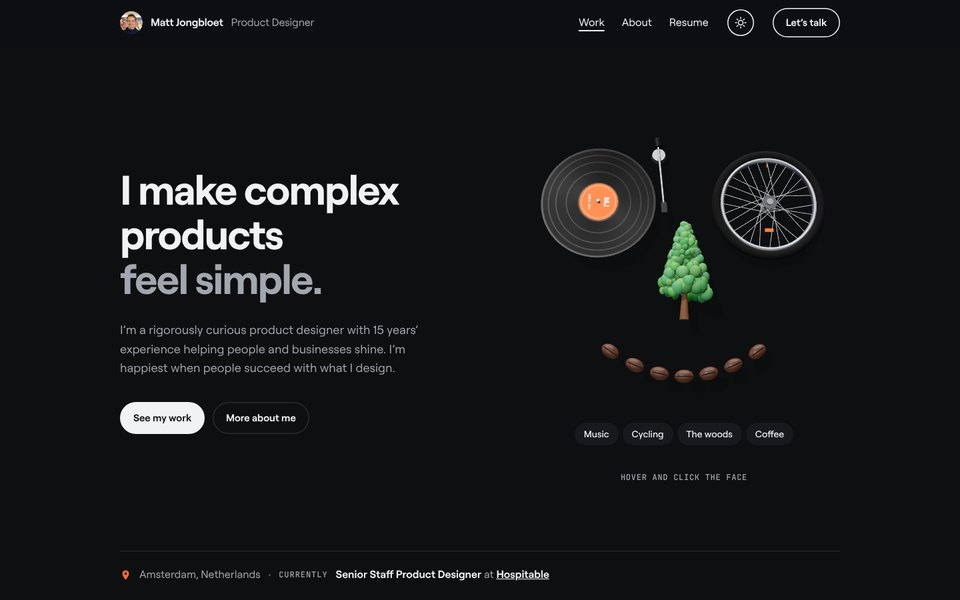
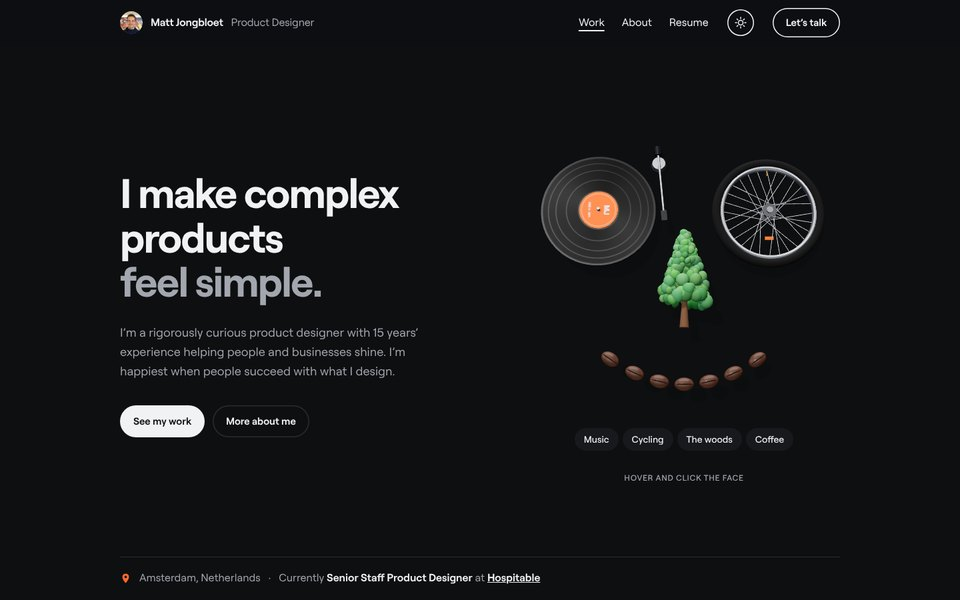
Site hero fits the first screen on laptops; labels set in Roobert
- The 3D stage now scales with the window height (the buttons under it
  keep their width), hero padding and the bottom line are tighter, and
  the header's border is counted, so "Amsterdam, Netherlands · Currently
  Senior Staff Product Designer at Hospitable" is always above the fold
  (checked from 1280×600 to 1920×1080).
- "Currently" is plain Roobert text; the small labels that used the
  monospace font (captions, eyebrows, dates) use Roobert across the site
  and case studies.

Claude-Session: https://claude.ai/code/session_01Tkb5DGqZXNJZimVWufZrfG

diff --git a/redesigns/site/variant.css b/redesigns/site/variant.css
@@ -78,20 +78,25 @@ body { font-size: 16px; }
 
 /* Hero modelled on Sati Tashibayeva's: a smaller headline and intro, the interactive piece on the right,
    and one line underneath (location, current role) in place of the four impact blocks. */
-.hero-screen { display: flex; flex-direction: column; min-height: calc(100svh - 68px); }
+.hero-screen { display: flex; flex-direction: column; min-height: calc(100svh - 69px); }  /* 69px = header + its border */
 .hero-screen > .wrap { width: 100%; }
 .hero-screen .hero { flex: 1; }
 .hero.hero-text h1 { font-size: clamp(34px, 4.3vw, 62px); max-width: 13ch; letter-spacing: -0.03em; }
 .hero .lede { font-size: clamp(16px, 1.25vw, 18px); max-width: 40ch; }
-.has-toy .hero-toy { max-width: 520px; }
-.hero-foot { display: flex; flex-wrap: wrap; align-items: center; gap: 4px 12px; margin: 0; padding-block: 16px 20px; border-top: 1px solid var(--line); font-size: 16px; color: var(--ink-2); }
+/* Everything above the fold: the face shrinks with the window height so the location line always fits on the first screen. */
+.hero-screen .hero.hero-text.has-toy { padding-block: 28px 20px; }
+.has-toy .hero-toy { max-width: 520px; gap: 10px; }
+.hero-screen .toy-stage { width: clamp(240px, calc(100svh - 312px), 100%); margin-inline: auto; }
+.hero-screen .face-pop { min-height: 62px; }
+.hero-foot { display: flex; flex-wrap: wrap; align-items: center; gap: 4px 12px; margin: 0; padding-block: 12px 14px; border-top: 1px solid var(--line); font-size: 16px; color: var(--ink-2); }
 .hero-foot svg { width: 17px; height: 17px; color: var(--signal); flex: none; }
-.hero-foot .lbl { font: 500 12px/1 var(--mono); letter-spacing: .08em; text-transform: uppercase; }
 .hero-foot b { color: var(--ink); font-weight: 600; }
 .hero-foot a { color: var(--ink); font-weight: 600; display: inline-block; padding-block: 6px; }
 .work-band { margin-top: 0; }
 @media (max-width: 900px) { .hero-screen { min-height: 0; } }
 
+/* One typeface: the small labels that used the monospace font are set in Roobert too. */
+:root { --mono: var(--body); }
 /* Header: face, name and role on the left; Work, About, Resume, theme toggle and Let's talk on the right. */
 .top .wrap { gap: 28px; }
 .brand { gap: 12px; font-weight: 600; font-size: 16px; }

diff --git a/redesigns/site/index.html b/redesigns/site/index.html
@@ -50,7 +50,7 @@
       <div class="face-pop" aria-live="polite"><p class="toy-hint">Hover and click the face</p></div>
     </div>
   </section>
-  <div class="wrap"><p class="hero-foot"><svg viewBox="0 0 24 24" aria-hidden="true"><path fill="currentColor" d="M12 2a7 7 0 0 0-7 7c0 5 7 13 7 13s7-8 7-13a7 7 0 0 0-7-7Zm0 9.6A2.6 2.6 0 1 1 12 6.4a2.6 2.6 0 0 1 0 5.2Z"/></svg><span>Amsterdam, Netherlands</span><span aria-hidden="true">·</span><span class="lbl">Currently</span><span><b>Senior Staff Product Designer</b> at <a href="https://hospitable.com/">Hospitable</a></span></p></div>
+  <div class="wrap"><p class="hero-foot"><svg viewBox="0 0 24 24" aria-hidden="true"><path fill="currentColor" d="M12 2a7 7 0 0 0-7 7c0 5 7 13 7 13s7-8 7-13a7 7 0 0 0-7-7Zm0 9.6A2.6 2.6 0 1 1 12 6.4a2.6 2.6 0 0 1 0 5.2Z"/></svg><span>Amsterdam, Netherlands</span><span aria-hidden="true">·</span><span>Currently <b>Senior Staff Product Designer</b> at <a href="https://hospitable.com/">Hospitable</a></span></p></div>
   </div>
 
 

diff --git a/redesigns/case-studies/format.css b/redesigns/case-studies/format.css
@@ -57,6 +57,8 @@ body { font-size: 16px; }
 .path .place { font-size: 17px; }
 .next h3 { font-size: clamp(24px, 3vw, 38px); }
 
+/* One typeface: the small labels that used the monospace font are set in Roobert too. */
+:root { --mono: var(--body); }
 /* Header: face, name and role on the left; Work, About, Resume, theme toggle and Let's talk on the right. */
 .top .wrap { gap: 28px; }
 .brand { gap: 12px; font-weight: 600; font-size: 16px; }

diff --git a/tools/build-a-cv.py b/tools/build-a-cv.py
@@ -334,21 +334,24 @@ HEROES["site"] = f"""  <div class="hero-screen">
 {ACTIONS}
     </div>
   </section>
-  <div class="wrap"><p class="hero-foot">{PIN}<span>Amsterdam, Netherlands</span><span aria-hidden="true">·</span><span class="lbl">Currently</span><span><b>Senior Staff Product Designer</b> at <a href="https://hospitable.com/">Hospitable</a></span></p></div>
+  <div class="wrap"><p class="hero-foot">{PIN}<span>Amsterdam, Netherlands</span><span aria-hidden="true">·</span><span>Currently <b>Senior Staff Product Designer</b> at <a href="https://hospitable.com/">Hospitable</a></span></p></div>
   </div>"""
 WORK["site"] = ORDER
 SITE_CSS = """
 /* Hero modelled on Sati Tashibayeva's: a smaller headline and intro, the interactive piece on the right,
    and one line underneath (location, current role) in place of the four impact blocks. */
-.hero-screen { display: flex; flex-direction: column; min-height: calc(100svh - 68px); }
+.hero-screen { display: flex; flex-direction: column; min-height: calc(100svh - 69px); }  /* 69px = header + its border */
 .hero-screen > .wrap { width: 100%; }
 .hero-screen .hero { flex: 1; }
 .hero.hero-text h1 { font-size: clamp(34px, 4.3vw, 62px); max-width: 13ch; letter-spacing: -0.03em; }
 .hero .lede { font-size: clamp(16px, 1.25vw, 18px); max-width: 40ch; }
-.has-toy .hero-toy { max-width: 520px; }
-.hero-foot { display: flex; flex-wrap: wrap; align-items: center; gap: 4px 12px; margin: 0; padding-block: 16px 20px; border-top: 1px solid var(--line); font-size: 16px; color: var(--ink-2); }
+/* Everything above the fold: the face shrinks with the window height so the location line always fits on the first screen. */
+.hero-screen .hero.hero-text.has-toy { padding-block: 28px 20px; }
+.has-toy .hero-toy { max-width: 520px; gap: 10px; }
+.hero-screen .toy-stage { width: clamp(240px, calc(100svh - 312px), 100%); margin-inline: auto; }
+.hero-screen .face-pop { min-height: 62px; }
+.hero-foot { display: flex; flex-wrap: wrap; align-items: center; gap: 4px 12px; margin: 0; padding-block: 12px 14px; border-top: 1px solid var(--line); font-size: 16px; color: var(--ink-2); }
 .hero-foot svg { width: 17px; height: 17px; color: var(--signal); flex: none; }
-.hero-foot .lbl { font: 500 12px/1 var(--mono); letter-spacing: .08em; text-transform: uppercase; }
 .hero-foot b { color: var(--ink); font-weight: 600; }
 .hero-foot a { color: var(--ink); font-weight: 600; display: inline-block; padding-block: 6px; }
 .work-band { margin-top: 0; }

diff --git a/tools/site_parts.py b/tools/site_parts.py
@@ -55,6 +55,8 @@ THEME_JS = """
 """
 
 HEADER_CSS = """
+/* One typeface: the small labels that used the monospace font are set in Roobert too. */
+:root { --mono: var(--body); }
 /* Header: face, name and role on the left; Work, About, Resume, theme toggle and Let's talk on the right. */
 .top .wrap { gap: 28px; }
 .brand { gap: 12px; font-weight: 600; font-size: 16px; }
